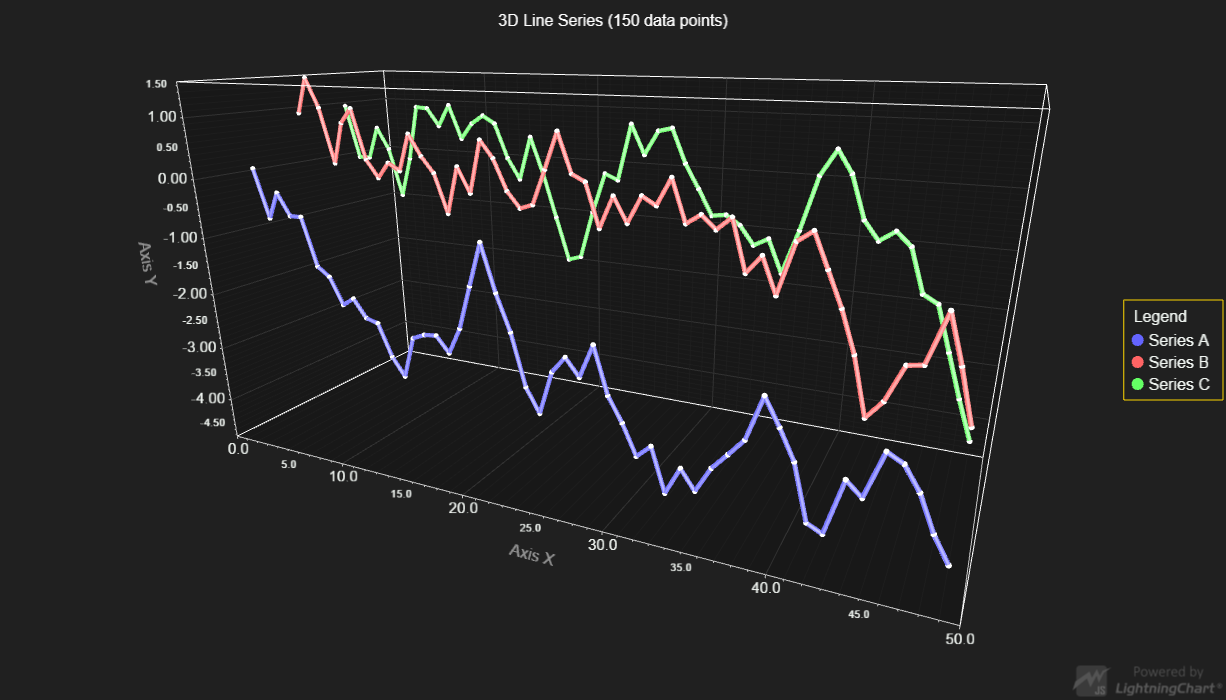
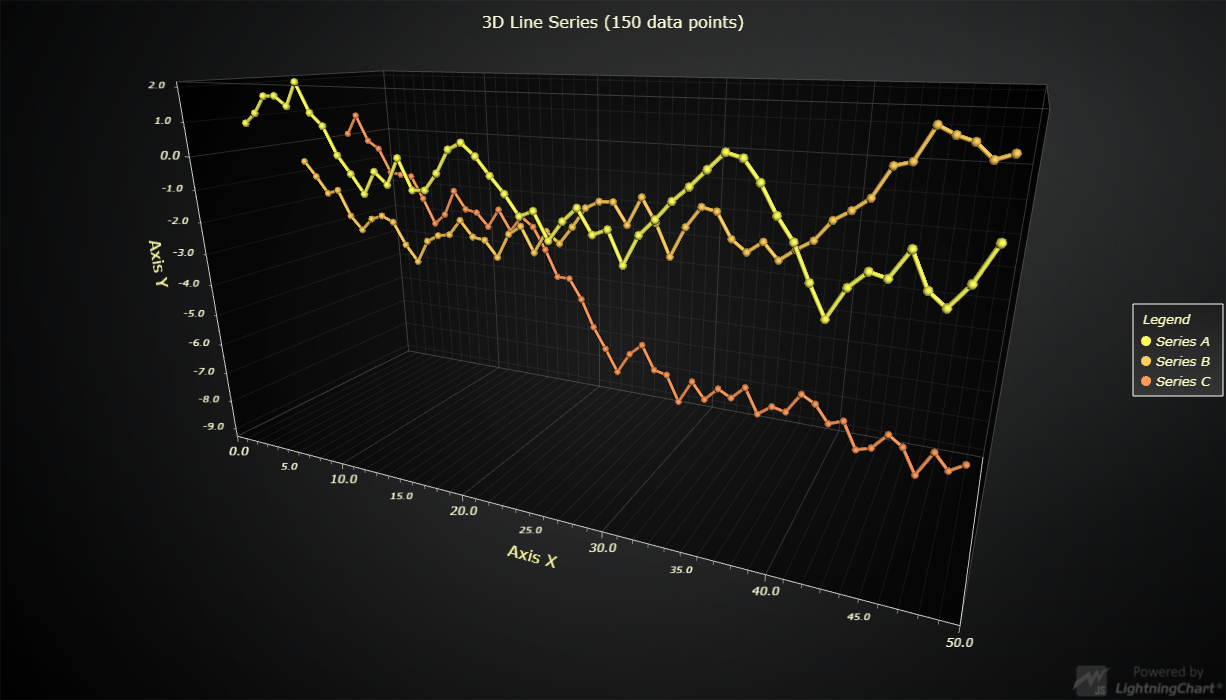
Update LCJS version

diff --git a/src/index.js b/src/index.js
@@ -8,10 +8,6 @@ const lcjs = require('@arction/lcjs')
 const {
     lightningChart,
     AxisTickStrategies,
-    ColorRGBA,
-    SolidFill,
-    SolidLine,
-    PointStyle3D,
     Themes
 } = lcjs
 
@@ -22,7 +18,7 @@ const {
 
 // Initiate chart
 const chart3D = lightningChart().Chart3D({
-    // theme: Themes.dark
+    // theme: Themes.darkGold
 })
     // Set 3D bounding box dimensions to highlight X Axis. 
     .setBoundingBox({ x: 1.0, y: 0.5, z: 0.4 })
@@ -40,20 +36,14 @@ const seriesConf = [
     {
         name: 'Series A',
         dataAmount: 50,
-        thickness: 10,
-        color: ColorRGBA(100, 100, 255)
     },
     {
         name: 'Series B',
-        dataAmount: 50,
-        thickness: 10,
-        color: ColorRGBA(255, 100, 100)
+        dataAmount: 50
     },
     {
         name: 'Series C',
-        dataAmount: 50,
-        thickness: 10,
-        color: ColorRGBA(100, 255, 100)
+        dataAmount: 50
     },
 ]
 
@@ -69,22 +59,9 @@ seriesConf.forEach((conf, iSeries) => {
     const seriesName = conf.name || ''
     const seriesDataAmount = conf.dataAmount || 100
     const seriesZ = conf.z || iSeries
-    const seriesThickness = conf.thickness || 5
-    const seriesPointSize = conf.pointSize || seriesThickness * 1.2
-    const seriesColor = conf.color || ColorRGBA(255, 255, 255)
-    const seriesPointColor = conf.pointColor || ColorRGBA(255, 255, 255)
     
     const series = chart3D.addPointLineSeries()
         .setName(seriesName)
-        .setLineStyle(new SolidLine({
-            thickness: seriesThickness,
-            fillStyle: new SolidFill({ color: seriesColor })
-        }))
-        .setPointStyle(new PointStyle3D.Triangulated({
-            size: seriesPointSize,
-            fillStyle: new SolidFill({ color: seriesPointColor }),
-            shape: 'sphere'
-        }))
 
     createProgressiveTraceGenerator()
         .setNumberOfPoints(seriesDataAmount)
@@ -112,4 +89,10 @@ seriesConf.forEach((conf, iSeries) => {
 })
 
 // Add LegendBox to chart.
-const legend = chart3D.addLegendBox().add(chart3D)
+const legend = chart3D.addLegendBox()
+    // Dispose example UI elements automatically if they take too much space. This is to avoid bad UI on mobile / etc. devices.
+    .setAutoDispose({
+        type: 'max-width',
+        maxWidth: 0.30,
+    })
+    .add(chart3D)

diff --git a/webpack.config.js b/webpack.config.js
@@ -69,7 +69,8 @@ module.exports = {
         }),
         new CopyWebpackPlugin({
             patterns: [
-                { from: './assets/**/*', to: './examples/assets', flatten: true, noErrorOnMissing: true }
+                { from: './assets/**/*', to: './examples/assets', flatten: true, noErrorOnMissing: true },
+                { from: './node_modules/@arction/lcjs/dist/resources', to: 'resources', noErrorOnMissing: true },
             ]
         })
     ]

diff --git a/README.md b/README.md
@@ -77,6 +77,6 @@ Direct developer email support can be purchased through a [Support Plan][4] or b
 © Arction Ltd 2009-2020. All rights reserved.
 
 
-[3D chart]: https://www.arction.com/lightningchart-js-api-documentation/v3.0.1/classes/chart3d.html
-[3D line series]: https://www.arction.com/lightningchart-js-api-documentation/v3.0.1/classes/lineseries3d.html
+[3D chart]: https://www.arction.com/lightningchart-js-api-documentation/v3.1.0/classes/chart3d.html
+[3D line series]: https://www.arction.com/lightningchart-js-api-documentation/v3.1.0/classes/lineseries3d.html
 
